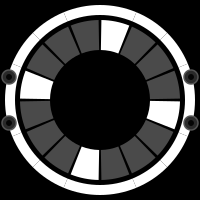
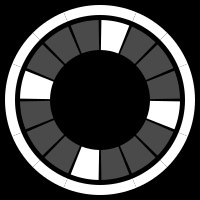
modgui: use mod-ui's standard jack and toggle widget conventions
Inspired by the dm-SpaceEcho and rt-neural-generic modguis, the
custom audio-jack divs and the <input type="hidden"> port hooks are
replaced by the mod-ui standard widget vocabulary.

Audio jacks: the icon now contains the canonical
  <div class="mod-pedal-input">
      {{#effect.ports.audio.input}}
      <div class="mod-input mod-input-disconnected" mod-role="input-audio-port" mod-port-symbol="{{symbol}}">
          <div class="mod-pedal-input-image"></div>
      </div>
      {{/effect.ports.audio.input}}
  </div>
(and the matching output block). mod-ui's built-in CSS draws the
side-view 1/4" plug graphics and toggles the connected/disconnected
state for free; the mustache loop is fed by the host's port list, so
no per-port HTML is needed.

Step toggles: each step now has a hidden .mod-toggle-image with
mod-role="input-control-port" tucked inside a position:absolute /
overflow:hidden / visibility:hidden container. mod-ui's built-in
toggle handler attaches itself to those, owns the value state and
handles the WebSocket comms with mod-host. The visible SVG paths
simply $(...).trigger('click') the matching hidden toggle, and the
modgui JS listens for the 'change' event to keep the ring's visual
class in sync.

The funcs.* callback attempts and dispatched DOM events from the
previous version are dropped: forwarding clicks to the standard
widget covers every mod-ui revision without guesswork.

The screenshot and thumbnail are regenerated without the obsolete
[…]

diff --git a/parkinsound-stepgate.lv2/modgui/icon-parkinsound-stepgate.html b/parkinsound-stepgate.lv2/modgui/icon-parkinsound-stepgate.html
@@ -1,49 +1,12 @@
-<div class="parkinsound-stepgate-pedal mod-pedal" mod-role="main-body">
+<div class="parkinsound-stepgate-pedal mod-pedal{{{cns}}}">
 
-    <!-- Audio jacks: standard mod-ui hook points so pedalboards can wire
-         the plug-in. Two on each side (L+R) per MOD stereo convention. -->
-    <div class="audio-jack input  in-l"  mod-role="input-audio-port"  mod-port-symbol="audio_in_l"></div>
-    <div class="audio-jack input  in-r"  mod-role="input-audio-port"  mod-port-symbol="audio_in_r"></div>
-    <div class="audio-jack output out-l" mod-role="output-audio-port" mod-port-symbol="audio_out_l"></div>
-    <div class="audio-jack output out-r" mod-role="output-audio-port" mod-port-symbol="audio_out_r"></div>
+    <div mod-role="drag-handle" class="mod-drag-handle"></div>
 
-    <!-- Hidden control-port hooks. Direct children of main-body (not
-         wrapped in display:none, which some mod-ui versions skip during
-         their attribute scan). Mustache fills initial values. -->
-    <input type="hidden" mod-role="input-control-port" mod-port-symbol="step_1_on"   value="{{ports.step_1_on.value}}"/>
-    <input type="hidden" mod-role="input-control-port" mod-port-symbol="step_1_tie"  value="{{ports.step_1_tie.value}}"/>
-    <input type="hidden" mod-role="input-control-port" mod-port-symbol="step_2_on"   value="{{ports.step_2_on.value}}"/>
-    <input type="hidden" mod-role="input-control-port" mod-port-symbol="step_2_tie"  value="{{ports.step_2_tie.value}}"/>
-    <input type="hidden" mod-role="input-control-port" mod-port-symbol="step_3_on"   value="{{ports.step_3_on.value}}"/>
-    <input type="hidden" mod-role="input-control-port" mod-port-symbol="step_3_tie"  value="{{ports.step_3_tie.value}}"/>
-    <input type="hidden" mod-role="input-control-port" mod-port-symbol="step_4_on"   value="{{ports.step_4_on.value}}"/>
-    <input type="hidden" mod-role="input-control-port" mod-port-symbol="step_4_tie"  value="{{ports.step_4_tie.value}}"/>
-    <input type="hidden" mod-role="input-control-port" mod-port-symbol="step_5_on"   value="{{ports.step_5_on.value}}"/>
-    <input type="hidden" mod-role="input-control-port" mod-port-symbol="step_5_tie"  value="{{ports.step_5_tie.value}}"/>
-    <input type="hidden" mod-role="input-control-port" mod-port-symbol="step_6_on"   value="{{ports.step_6_on.value}}"/>
-    <input type="hidden" mod-role="input-control-port" mod-port-symbol="step_6_tie"  value="{{ports.step_6_tie.value}}"/>
-    <input type="hidden" mod-role="input-control-port" mod-port-symbol="step_7_on"   value="{{ports.step_7_on.value}}"/>
-    <input type="hidden" mod-role="input-control-port" mod-port-symbol="step_7_tie"  value="{{ports.step_7_tie.value}}"/>
-    <input type="hidden" mod-role="input-control-port" mod-port-symbol="step_8_on"   value="{{ports.step_8_on.value}}"/>
-    <input type="hidden" mod-role="input-control-port" mod-port-symbol="step_8_tie"  value="{{ports.step_8_tie.value}}"/>
-    <input type="hidden" mod-role="input-control-port" mod-port-symbol="step_9_on"   value="{{ports.step_9_on.value}}"/>
-    <input type="hidden" mod-role="input-control-port" mod-port-symbol="step_9_tie"  value="{{ports.step_9_tie.value}}"/>
-    <input type="hidden" mod-role="input-control-port" mod-port-symbol="step_10_on"  value="{{ports.step_10_on.value}}"/>
-    <input type="hidden" mod-role="input-control-port" mod-port-symbol="step_10_tie" value="{{ports.step_10_tie.value}}"/>
-    <input type="hidden" mod-role="input-control-port" mod-port-symbol="step_11_on"  value="{{ports.step_11_on.value}}"/>
-    <input type="hidden" mod-role="input-control-port" mod-port-symbol="step_11_tie" value="{{ports.step_11_tie.value}}"/>
-    <input type="hidden" mod-role="input-control-port" mod-port-symbol="step_12_on"  value="{{ports.step_12_on.value}}"/>
-    <input type="hidden" mod-role="input-control-port" mod-port-symbol="step_12_tie" value="{{ports.step_12_tie.value}}"/>
-    <input type="hidden" mod-role="input-control-port" mod-port-symbol="step_13_on"  value="{{ports.step_13_on.value}}"/>
-    <input type="hidden" mod-role="input-control-port" mod-port-symbol="step_13_tie" value="{{ports.step_13_tie.value}}"/>
-    <input type="hidden" mod-role="input-control-port" mod-port-symbol="step_14_on"  value="{{ports.step_14_on.value}}"/>
-    <input type="hidden" mod-role="input-control-port" mod-port-symbol="step_14_tie" value="{{ports.step_14_tie.value}}"/>
-    <input type="hidden" mod-role="input-control-port" mod-port-symbol="step_15_on"  value="{{ports.step_15_on.value}}"/>
-    <input type="hidden" mod-role="input-control-port" mod-port-symbol="step_15_tie" value="{{ports.step_15_tie.value}}"/>
-    <input type="hidden" mod-role="input-control-port" mod-port-symbol="step_16_on"  value="{{ports.step_16_on.value}}"/>
-    <input type="hidden" mod-role="input-control-port" mod-port-symbol="step_16_tie" value="{{ports.step_16_tie.value}}"/>
-    <input type="hidden" mod-role="output-control-port" mod-port-symbol="current_step" value="{{ports.current_step.value}}"/>
-
+    <!--
+        Visible custom UI: black square + step ring + tie ring.
+        Purely cosmetic; the SVG paths route clicks to the hidden
+        mod-toggle-image widgets below, which mod-ui drives.
+    -->
     <svg class="parkinsound-stepgate-svg"
          viewBox="0 0 200 200"
          preserveAspectRatio="xMidYMid meet"
@@ -52,5 +15,74 @@
         <g class="tie-ring"></g>
         <g class="step-ring"></g>
     </svg>
+
+    <!--
+        Hidden mod-ui toggle widgets. mod-ui's built-in JS picks up
+        every .mod-toggle-image with mod-role="input-control-port"
+        and wires its click handler straight to mod-host. The visible
+        SVG paths simply $(...).trigger('click') the matching hidden
+        widget.
+    -->
+    <div class="step-port-hooks">
+        <div class="mod-toggle-image" mod-role="input-control-port" mod-port-symbol="step_1_on"   data-hook="step_1_on"></div>
+        <div class="mod-toggle-image" mod-role="input-control-port" mod-port-symbol="step_1_tie"  data-hook="step_1_tie"></div>
+        <div class="mod-toggle-image" mod-role="input-control-port" mod-port-symbol="step_2_on"   data-hook="step_2_on"></div>
+        <div class="mod-toggle-image" mod-role="input-control-port" mod-port-symbol="step_2_tie"  data-hook="step_2_tie"></div>
+        <div class="mod-toggle-image" mod-role="input-control-port" mod-port-symbol="step_3_on"   data-hook="step_3_on"></div>
+        <div class="mod-toggle-image" mod-role="input-control-port" mod-port-symbol="step_3_tie"  data-hook="step_3_tie"></div>
+        <div class="mod-toggle-image" mod-role="input-control-port" mod-port-symbol="step_4_on"   data-hook="step_4_on"></div>
+        <div class="mod-toggle-image" mod-role="input-control-port" mod-port-symbol="step_4_tie"  data-hook="step_4_tie"></div>
+        <div class="mod-toggle-image" mod-role="input-control-port" mod-port-symbol="step_5_on"   data-hook="step_5_on"></div>
+        <div class="mod-toggle-image" mod-role="input-control-port" mod-port-symbol="step_5_tie"  data-hook="step_5_tie"></div>
+        <div class="mod-toggle-image" mod-role="input-control-port" mod-port-symbol="step_6_on"   data-hook="step_6_on"></div>
+        <div class="mod-toggle-image" mod-role="input-control-port" mod-port-symbol="step_6_tie"  data-hook="step_6_tie"></div>
+        <div class="mod-toggle-image" mod-role="input-control-port" mod-port-symbol="step_7_on"   data-hook="step_7_on"></div>
+        <div class="mod-toggle-image" mod-role="input-control-port" mod-port-symbol="step_7_tie"  data-hook="step_7_tie"></div>
+        <div class="mod-toggle-image" mod-role="input-control-port" mod-port-symbol="step_8_on"   data-hook="step_8_on"></div>
+        <div class="mod-toggle-image" mod-role="input-control-port" mod-port-symbol="step_8_tie"  data-hook="step_8_tie"></div>
+        <div class="mod-toggle-image" mod-role="input-control-port" mod-port-symbol="step_9_on"   data-hook="step_9_on"></div>
+        <div class="mod-toggle-image" mod-role="input-control-port" mod-port-symbol="step_9_tie"  data-hook="step_9_tie"></div>
+        <div class="mod-toggle-image" mod-role="input-control-port" mod-port-symbol="step_10_on"  data-hook="step_10_on"></div>
+        <div class="mod-toggle-image" mod-role="input-control-port" mod-port-symbol="step_10_tie" data-hook="step_10_tie"></div>
+        <div class="mod-toggle-image" mod-role="input-control-port" mod-port-symbol="step_11_on"  data-hook="step_11_on"></div>
+        <div class="mod-toggle-image" mod-role="input-control-port" mod-port-symbol="step_11_tie" data-hook="step_11_tie"></div>
+        <div class="mod-toggle-image" mod-role="input-control-port" mod-port-symbol="step_12_on"  data-hook="step_12_on"></div>
+        <div class="mod-toggle-image" mod-role="input-control-port" mod-port-symbol="step_12_tie" data-hook="step_12_tie"></div>
+        <div class="mod-toggle-image" mod-role="input-control-port" mod-port-symbol="step_13_on"  data-hook="step_13_on"></div>
+        <div class="mod-toggle-image" mod-role="input-control-port" mod-port-symbol="step_13_tie" data-hook="step_13_tie"></div>
+        <div class="mod-toggle-image" mod-role="input-control-port" mod-port-symbol="step_14_on"  data-hook="step_14_on"></div>
+        <div class="mod-toggle-image" mod-role="input-control-port" mod-port-symbol="step_14_tie" data-hook="step_14_tie"></div>
+        <div class="mod-toggle-image" mod-role="input-control-port" mod-port-symbol="step_15_on"  data-hook="step_15_on"></div>
+        <div class="mod-toggle-image" mod-role="input-control-port" mod-port-symbol="step_15_tie" data-hook="step_15_tie"></div>
+        <div class="mod-toggle-image" mod-role="input-control-port" mod-port-symbol="step_16_on"  data-hook="step_16_on"></div>
+        <div class="mod-toggle-image" mod-role="input-control-port" mod-port-symbol="step_16_tie" data-hook="step_16_tie"></div>
+    </div>
+
+    <!--
+        Standard mod-ui audio jacks. The mustache loop is supplied by
+        mod-ui from the LV2 audio port list; mod-ui draws the side-view
+        1/4" plug graphics via the built-in .mod-pedal-input-image /
+        .mod-pedal-output-image CSS classes.
+    -->
+    <div class="mod-pedal-input">
+        {{#effect.ports.audio.input}}
+        <div class="mod-input mod-input-disconnected"
+             title="{{name}}"
+             mod-role="input-audio-port"
+             mod-port-symbol="{{symbol}}">
+            <div class="mod-pedal-input-image"></div>
+        </div>
+        {{/effect.ports.audio.input}}
+    </div>
+    <div class="mod-pedal-output">
+        {{#effect.ports.audio.output}}
+        <div class="mod-output mod-output-disconnected"
+             title="{{name}}"
+             mod-role="output-audio-port"
+             mod-port-symbol="{{symbol}}">
+            <div class="mod-pedal-output-image"></div>
+        </div>
+        {{/effect.ports.audio.output}}
+    </div>
 
 </div>

diff --git a/parkinsound-stepgate.lv2/modgui/javascript-parkinsound-stepgate.js b/parkinsound-stepgate.lv2/modgui/javascript-parkinsound-stepgate.js
@@ -1,11 +1,12 @@
 /*
  * Parkinsound Step Gate - modgui controller.
  *
- * Builds the step ring (16 sectors, with gaps) and the tie ring (16
- * contiguous segments around it) as SVG paths, wires clicks to the
- * hidden mod-role="input-control-port" hooks declared in the HTML
- * template, and reflects host-side port changes back onto the ring
- * styling. The current_step output port lights up the active sector.
+ * The visible SVG ring is cosmetic: each step and tie path is bound
+ * to the matching hidden .mod-toggle-image widget (declared in the
+ * HTML template), and clicking a path simply $.triggers('click') on
+ * its hook. mod-ui's built-in toggle handler then writes the new
+ * value to mod-host. We listen for the 'change' callback to keep the
+ * ring's visual state in sync with the host.
  *
  * Step 1 begins just past 12 o'clock and the ring advances clockwise.
  */
@@ -14,9 +15,9 @@ function (event) {
     var CX         = 100, CY = 100;
     var STEP_OUTER = 80,  STEP_INNER = 50;
     var TIE_OUTER  = 95,  TIE_INNER  = 85;
-    var GAP_DEG    = 2;       /* gap between step sectors (degrees) */
-    var STEP_DEG   = 22.5;    /* 360 / 16 */
-    var START_DEG  = -90;     /* 12 o'clock in SVG angle convention */
+    var GAP_DEG    = 2;
+    var STEP_DEG   = 22.5;
+    var START_DEG  = -90;
 
     function deg2rad(d) { return d * Math.PI / 180; }
 
@@ -88,47 +89,21 @@ function (event) {
         }
     }
 
-    /* Push a port value back to mod-host. mod-ui versions differ in
-     * how they listen for control-port writes from custom modguis, so
-     * we try every well-known mechanism. */
-    function pushPortValue(rootEl, symbol, value, funcs) {
-        /* 1. funcs callback API (newer mod-ui versions) */
-        if (funcs) {
-            if (typeof funcs.change_port_value === 'function') {
-                funcs.change_port_value(symbol, value);
-            } else if (typeof funcs.setPortWidgetsValue === 'function') {
-                funcs.setPortWidgetsValue(symbol, value);
-            } else if (typeof funcs.set_port === 'function') {
-                funcs.set_port(symbol, value);
-            }
-        }
-        /* 2. Hidden hook input - jQuery .val().change() (classic API) */
-        var hook = rootEl.find(
-            '[mod-role="input-control-port"][mod-port-symbol="' + symbol + '"]'
-        );
-        if (hook.length) {
-            hook.val(value).trigger('change').trigger('input');
-            /* 3. Native DOM events as a last-resort backup */
-            try {
-                hook[0].value = value;
-                hook[0].dispatchEvent(new Event('change', { bubbles: true }));
-                hook[0].dispatchEvent(new Event('input',  { bubbles: true }));
-            } catch (e) { /* old browsers */ }
-        }
-    }
-
-    function wireClicks(rootEl, funcs) {
+    function wireClicks(rootEl) {
         var svg = rootEl.find('.parkinsound-stepgate-svg')[0];
         svg.addEventListener('click', function (e) {
             var node = e.target.closest('[data-symbol]');
             if (!node) return;
             var symbol = node.getAttribute('data-symbol');
-            var current = node.classList.contains('on') ? 1 : 0;
-            var next    = 1 - current;
-            /* Optimistic UI update so the click feels instant. */
-            node.classList.toggle('on',  next === 1);
-            node.classList.toggle('off', next === 0);
-            pushPortValue(rootEl, symbol, next, funcs);
+            /* Forward the click to mod-ui's standard toggle widget.
+             * That widget owns the value state and the host comms. */
+            var hook = rootEl.find(
+                '.mod-toggle-image[mod-role="input-control-port"]' +
+                '[mod-port-symbol="' + symbol + '"]'
+            );
+            if (hook.length) {
+                hook.trigger('click');
+            }
             e.stopPropagation();
             e.preventDefault();
         });
@@ -137,7 +112,7 @@ function (event) {
     if (event.type === 'start') {
         var icon = $(event.icon);
         buildRings(icon);
-        wireClicks(icon, funcs);
+        wireClicks(icon);
 
         /* Apply the snapshot of port values mod-ui gave us at start. */
         if (event.value) {

diff --git a/parkinsound-stepgate.lv2/modgui/stylesheet-parkinsound-stepgate.css b/parkinsound-stepgate.lv2/modgui/stylesheet-parkinsound-stepgate.css
@@ -1,8 +1,8 @@
 /* Parkinsound Step Gate modgui styles
  *
  * Layout intentionally kept square (matches the user's "carré noir"
- * design brief). The pedal area is dimensioned via mod-pedal-* classes
- * but its visual content is the SVG ring, sized in viewBox units. */
+ * design brief). The pedal area is sized by mod-ui via mod-pedal-*
+ * classes; the SVG ring fills it. */
 
 .parkinsound-stepgate-pedal {
     position: relative;
@@ -60,39 +60,14 @@
             drop-shadow(0 0 14px rgba(255,255,255,0.85));
 }
 
-/* Hidden control-port hooks used to talk to mod-ui's port system.
- * type="hidden" is the standard HTML way; left here for completeness. */
-.parkinsound-stepgate-pedal input[type="hidden"] {
-    display: none;
-}
-
-/* --- Audio jacks ---
- * Two on the left edge (audio_in_l / audio_in_r) and two on the right
- * (audio_out_l / audio_out_r). mod-ui draws the cable endpoints on
- * these elements; the visual is up to us. */
-.parkinsound-stepgate-pedal .audio-jack {
+/* Hidden mod-ui toggle widgets: mod-ui's JS needs them in the DOM but
+ * the user never sees or clicks them - the SVG paths above proxy clicks
+ * via $.trigger('click'). */
+.parkinsound-stepgate-pedal .step-port-hooks {
     position: absolute;
-    width: 14px;
-    height: 14px;
-    border-radius: 50%;
-    background: radial-gradient(circle at 30% 30%, #8a8a8a 0%, #2a2a2a 70%, #111 100%);
-    border: 1.5px solid #555;
-    box-shadow: 0 0 3px rgba(0,0,0,0.9),
-                inset 0 0 3px rgba(0,0,0,0.7);
-    z-index: 10;
-    cursor: crosshair;
+    width: 0;
+    height: 0;
+    overflow: hidden;
+    visibility: hidden;
+    pointer-events: none;
 }
-
-.parkinsound-stepgate-pedal .audio-jack::after {
-    content: "";
-    position: absolute;
-    inset: 4px;
-    border-radius: 50%;
-    background: #050505;
-    box-shadow: inset 0 0 2px rgba(0,0,0,0.9);
-}
-
-.parkinsound-stepgate-pedal .audio-jack.input.in-l   { left: 2px;   top: 70px;  }
-.parkinsound-stepgate-pedal .audio-jack.input.in-r   { left: 2px;   top: 116px; }
-.parkinsound-stepgate-pedal .audio-jack.output.out-l { right: 2px;  top: 70px;  }
-.parkinsound-stepgate-pedal .audio-jack.output.out-r { right: 2px;  top: 116px; }

diff --git a/parkinsound-stepgate.lv2/modgui/preview.html b/parkinsound-stepgate.lv2/modgui/preview.html
@@ -20,10 +20,6 @@
 <h1>Parkinsound Step Gate &mdash; modgui preview</h1>
 <div class="stage">
     <div class="parkinsound-stepgate-pedal">
-        <div class="audio-jack input  in-l"></div>
-        <div class="audio-jack input  in-r"></div>
-        <div class="audio-jack output out-l"></div>
-        <div class="audio-jack output out-r"></div>
         <svg class="parkinsound-stepgate-svg" viewBox="0 0 200 200"
              preserveAspectRatio="xMidYMid meet"
              xmlns="http://www.w3.org/2000/svg">
@@ -33,6 +29,7 @@
         </svg>
     </div>
 </div>
+<div class="hint">In mod-ui, the side-view 1/4&quot; jack plugs are drawn automatically by mod-ui via its built-in .mod-pedal-input-image / .mod-pedal-output-image classes and the {{#effect.ports.audio.input}} mustache loop. They&#39;re not shown here because this preview runs without mod-ui.</div>
 <div class="hint">Click on a step sector (inner ring) to toggle on/off. Click on a tie segment (outer ring) to toggle the tie.</div>
 
 <script>